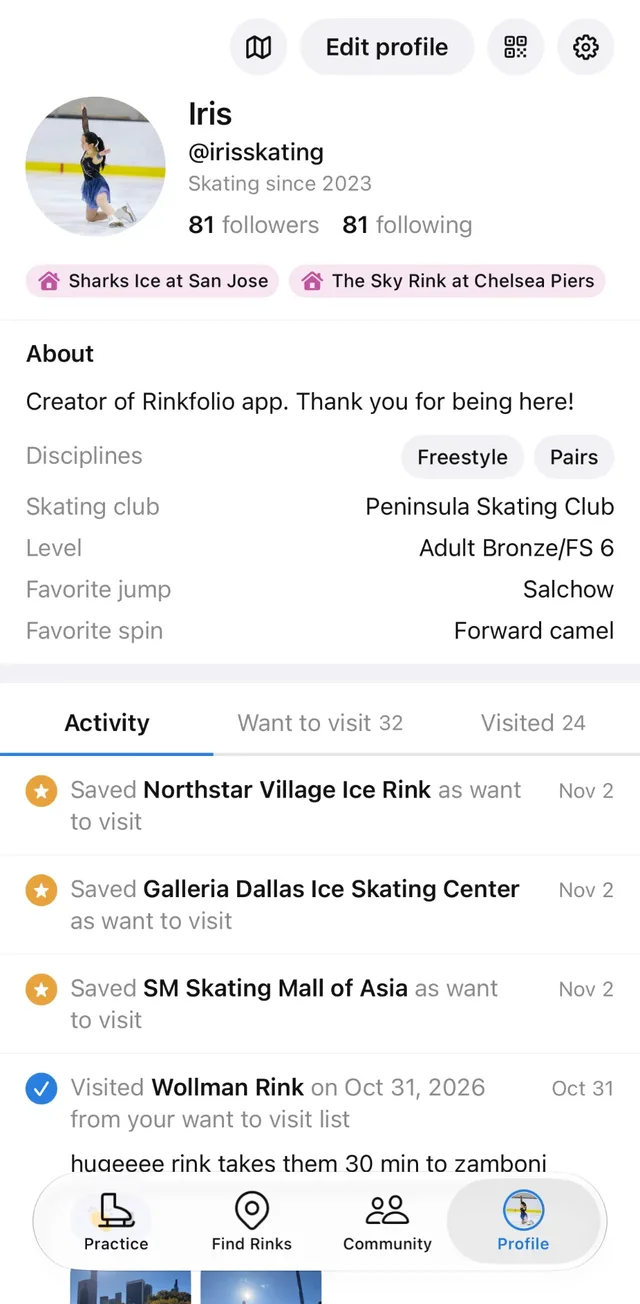
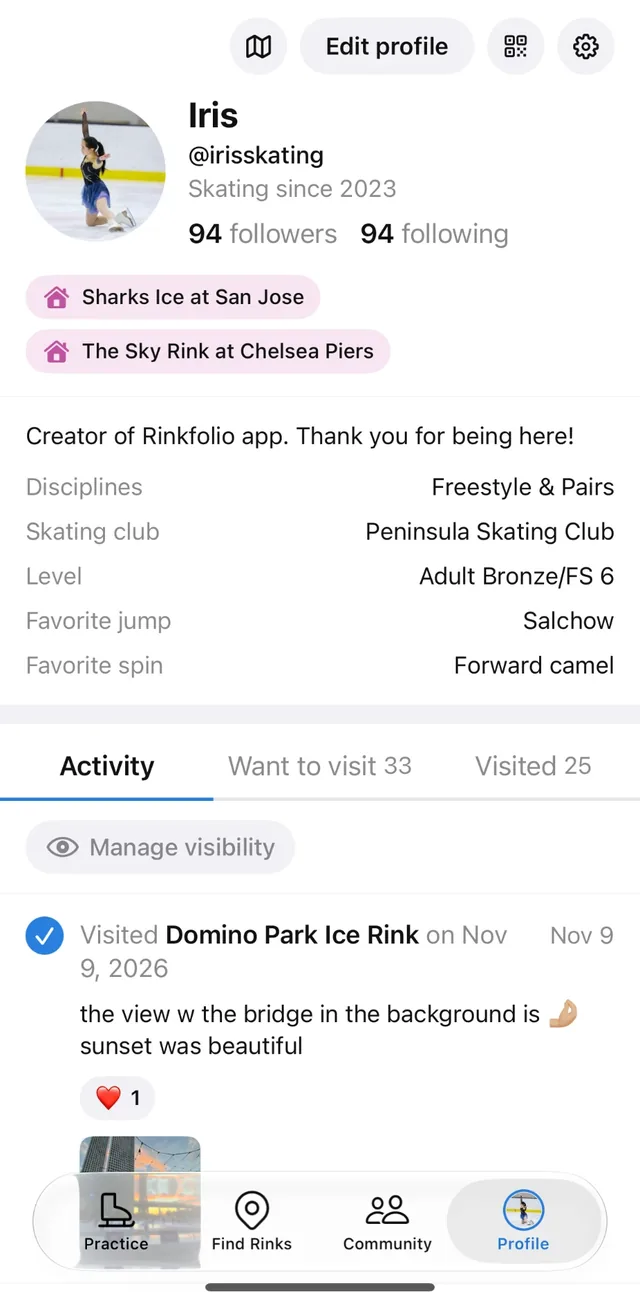
Home page: new practice, skills and profile screenshots (light and dark); subtitle "A progress tracker, a rink map and a community"; section text for sessions, standards and attempts, and reactions (no more milestones)

diff --git a/index.html b/index.html
@@ -28,7 +28,7 @@
 <div class="hero">
 <img src="logo.png" alt="">
 <h1>Rinkfolio: Find, log and share skating</h1>
-<p>A rink map, a skating journal and a community all in one app.</p>
+<p>A progress tracker, a rink map and a community all in one app.</p>
 </div>
 
 <section class="feature">
@@ -39,19 +39,19 @@
 
 <section class="feature">
 <h2>Log every visit</h2>
-<p>Add a note and photos to each session, so you can look back on where you skated and how it went.</p>
+<p>Log each session with what you practiced, then look back on where you skated and how it went. Share notes and photos about rinks for other skaters.</p>
 <picture><source media="(prefers-color-scheme: dark)" srcset="screenshots/visit-dark.webp"><img src="screenshots/visit-light.webp" alt="A rink page with a logged visit, a note and photos in Rinkfolio" width="640" height="1304" loading="lazy"></picture>
 </section>
 
 <section class="feature">
 <h2>Track your skills</h2>
-<p>Keep a list of your skills with key things to remember, move each one through its milestones, and use them to plan your practice sessions.</p>
-<picture><source media="(prefers-color-scheme: dark)" srcset="screenshots/skills-dark.webp"><img src="screenshots/skills-light.webp" alt="A list of skills with milestones in Rinkfolio" width="640" height="1304" loading="lazy"></picture>
+<p>Keep your skills by category, with key things to remember. Count your attempts, decide what earns a ✓, and see how each skill is going over time.</p>
+<picture><source media="(prefers-color-scheme: dark)" srcset="screenshots/skills-dark.webp"><img src="screenshots/skills-light.webp" alt="A list of skills by category in Rinkfolio" width="640" height="1304" loading="lazy"></picture>
 </section>
 
 <section class="feature">
 <h2>Skate with others</h2>
-<p>Follow other skaters, see their activity and share your profile with a link or QR code.</p>
+<p>Follow other skaters, react to their notes and wins, and share your profile with a link or QR code.</p>
 <picture><source media="(prefers-color-scheme: dark)" srcset="screenshots/profile-dark.webp"><img src="screenshots/profile-light.webp" alt="A skater's profile and activity in Rinkfolio" width="640" height="1304" loading="lazy"></picture>
 </section>
 
